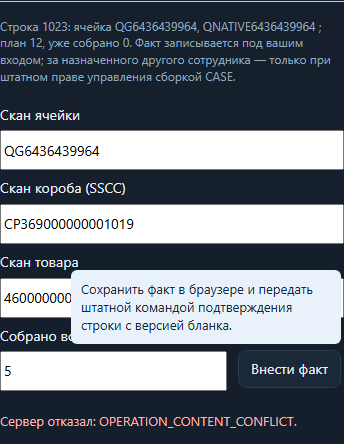
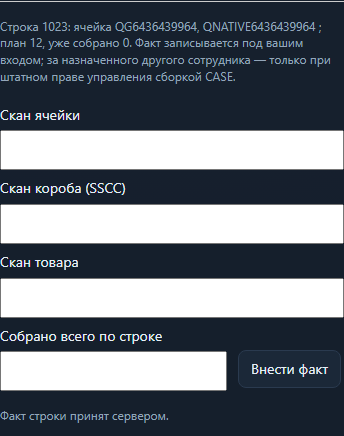
C-0156: paper fact journal guards (login scope before/after send, clear only on own confirmed refusal, readable refusals)

diff --git a/admin/wms_admin_frontend/src/features/platform/workspaces/paper/casePaper.ts b/admin/wms_admin_frontend/src/features/platform/workspaces/paper/casePaper.ts
@@ -45,7 +45,7 @@ export function parseCaseReference(text: string): { taskId: number; lineId: numb
 }
 
 export type CaseIntent = { task: number; line: number; path: string; wire: string; operation_id: string; scope: string; created_at: string };
-export type CaseSend = { kind: "ack" } | { kind: "refused"; code: string } | { kind: "unknown"; message: string };
+export type CaseSend = { kind: "ack" } | { kind: "refused"; code: string } | { kind: "unknown"; message: string } | { kind: "foreign"; message: string };
 export type UnitScan = { system_code: string; profile_code: string; code: string };
 export type CaseFact = { fact_qty: string; scan_cell: string; scan_container: string; scan_product: string; expected_case_signature: string; unit_scans?: UnitScan[] };
 /** Профили маркировки строки из существующего marking-policy; неизвестная форма — ошибка. */
@@ -93,18 +93,32 @@ function clearIfSame(intent: CaseIntent) {
   try { if (localStorage.getItem(key(intent.task, intent.line)) === JSON.stringify(intent)) localStorage.removeItem(key(intent.task, intent.line)); } catch { /* останется до повтора */ }
 }
 
-/** Отправить ровно сохранённые байты существующей командой подтверждения строки. */
+/** Запись этого входа и именно этот факт: scope, путь и байты совпадают с сохранённым. */
+const own = (intent: CaseIntent) => intent.scope === apiOperationScope() && readCasePending(intent.task, intent.line).intent !== null
+  && (() => { try { return localStorage.getItem(key(intent.task, intent.line)) === JSON.stringify(intent); } catch { return false; } })();
+const OTHER_LOGIN: CaseSend = { kind: "foreign", message: "Вход сменился: сохранённый факт прежнего входа не отправлен и не показан." };
+
+/** Отправить ровно сохранённые байты существующей командой подтверждения строки. Запись снимается только квитанцией своей операции или
+ *  подтверждённым отказом своей операции (409 с outcome_confirmed=true и тем же operation_id, не конфликт содержимого), либо 422 формы. */
 export async function sendCasePending(intent: CaseIntent): Promise<CaseSend> {
+  if (!own(intent)) return OTHER_LOGIN;  // старое намерение не уходит под другим входом
   try {
     const v = await apiFetch<{ operation_id?: string }>(intent.path, { method: "POST", body: intent.wire });
+    if (intent.scope !== apiOperationScope()) return OTHER_LOGIN;  // ответ пришёл после смены входа: запись остаётся, результат не показываем
     if (v?.operation_id !== intent.operation_id) return { kind: "unknown", message: "Ответ сервера не относится к этому факту. Факт сохранён; повторите его." };
     clearIfSame(intent);
     return { kind: "ack" };
   } catch (error) {
+    if (intent.scope !== apiOperationScope()) return OTHER_LOGIN;
     if (error instanceof ApiRequestError) {
-      const d = (typeof error.detail === "object" && error.detail ? error.detail : {}) as { code?: string; rule_reason?: string; outcome_confirmed?: boolean };
-      if (d.outcome_confirmed === true && error.status !== 503) { clearIfSame(intent); return { kind: "refused", code: d.rule_reason || d.code || `HTTP ${error.status}` }; }
-      if (error.status === 422) { clearIfSame(intent); return { kind: "refused", code: d.code ?? "CASE_COMMAND_INVALID" }; }
+      const d = (typeof error.detail === "object" && error.detail ? error.detail : {}) as { code?: string; rule_reason?: string; outcome_confirmed?: boolean; operation_id?: string; read_before_retry?: boolean };
+      const reason = d.rule_reason || d.code || `HTTP ${error.status}`;
+      if (error.status === 409 && d.outcome_confirmed === true && d.operation_id === intent.operation_id && !d.read_before_retry && !reason.includes("CONFLICT_CONTENT") && !reason.includes("CONTENT_CONFLICT")) {
+        clearIfSame(intent); return { kind: "refused", code: reason };
+      }
+      // 422: тело не прошло проверку формы до проведения (эффекта не было); это же тело никогда не пройдёт.
+      if (error.status === 422 && (d.code === "CASE_COMMAND_INVALID" || Array.isArray(error.detail))) { clearIfSame(intent); return { kind: "refused", code: d.code ?? "CASE_COMMAND_INVALID" }; }
+      if (reason.includes("CONTENT_CONFLICT")) return { kind: "unknown", message: "Номер этой операции уже использован с другими данными. Факт сохранён без изменений; сверьте строку в карточке CASE и обратитесь к руководителю." };
       return { kind: "unknown", message: error.status === 401 || error.status === 403 ? "Доступ закрыт или сессия завершена. Факт сохранён; войдите снова и повторите его."
         : `Исход не подтверждён (HTTP ${error.status}). Факт сохранён; повторите его тем же номером.` };
     }
@@ -119,5 +133,8 @@ export function refusal(code: string): string {
   if (code.includes("CASE_FACT_NOT_INCREASING") || code.includes("FACT_NOT_INCREASING")) return "Количество должно быть больше уже подтверждённого (вводится накопленное по строке).";
   if (code.includes("CASE_TASK_ACTOR_CONFLICT")) return "Задание назначено другому сотруднику; подтверждать за него может только сотрудник с правом управления сборкой CASE.";
   if (code.includes("CASE_TASK_LINE_STATE_CONFLICT")) return "Задание или строка не в работе: начните задание штатно или проверьте строку.";
-  return `Сервер отказал: ${code}.`;
+  if (code.includes("CASE_MARKED_UNIT_SCANS_REQUIRED")) return "Для маркированного товара нужны коды маркировки каждой собранной единицы.";
+  if (code.includes("CASE_SELECTED_UNIT_NOT_OWNED") || code.includes("CASE_SCANNED_UNIT_QUANTITY_CONFLICT")) return "Коды маркировки не совпали с единицами в ячейке или с количеством.";
+  if (code.includes("CASE_COMMAND_INVALID")) return "Данные факта не прошли проверку (например, повторный или неизвестный код). Исправьте и внесите заново.";
+  return "Сервер отказал в подтверждении строки.";
 }

diff --git a/admin/wms_admin_frontend/src/features/platform/workspaces/paper/CasePaperPanel.tsx b/admin/wms_admin_frontend/src/features/platform/workspaces/paper/CasePaperPanel.tsx
@@ -113,9 +113,10 @@ function CaseByReference() {
 
 /** Факт строки с бумаги: накопленное количество и обязательные сканы; уходит существующей командой с версией бланка. */
 function LineFact({ taskId, signature, line, status }: { taskId: number; signature: string; line: CaseLine; status: string }) {
-  const [pending, setPending] = useState(() => readCasePending(taskId, line.line_id));
+  // Журнал браузера — единственный источник: читается на каждом рендере (и при смене входа — уже по новому входу).
+  const [, bump] = useState(0), pending = readCasePending(taskId, line.line_id);
   const [form, setForm] = useState({ fact_qty: "", scan_cell: "", scan_container: "", scan_product: "" });
-  const [msg, setMsg] = useState<{ text: string; tone: "ok" | "err" }>({ text: "", tone: "ok" }), [busy, setBusy] = useState(false);
+  const [msg, setMsg] = useState<{ text: string; tone: "ok" | "err"; code?: string }>({ text: "", tone: "ok" }), [busy, setBusy] = useState(false);
   const marked = line.device_required === "MARKING_SCAN_REQUIRED";
   const [codes, setCodes] = useState<string[]>([]), [code, setCode] = useState("");
   const [profiles, setProfiles] = useState<{ list: { system_code: string; profile_code: string }[]; error: string } | null>(null), [profile, setProfile] = useState(0);
@@ -132,16 +133,16 @@ function LineFact({ taskId, signature, line, status }: { taskId: number; signatu
   const send = async (intent: CaseIntent) => {
     setBusy(true);
     const r = await sendCasePending(intent);
-    setPending(readCasePending(taskId, line.line_id));  // журнал браузера — источник: снят только подтверждённым исходом
+    bump(n => n + 1);
     setBusy(false);
-    setMsg(r.kind === "ack" ? { text: "Факт строки принят сервером.", tone: "ok" } : r.kind === "refused" ? { text: refusal(r.code), tone: "err" } : { text: r.message, tone: "err" });
+    setMsg(r.kind === "ack" ? { text: "Факт строки принят сервером.", tone: "ok" } : r.kind === "refused" ? { text: refusal(r.code), code: r.code, tone: "err" } : { text: r.message, tone: "err" });
   };
   const submit = () => {
     try {
       const p = profiles?.list[profile];
       if (marked && (!p || !codes.length)) throw new Error("Отсканируйте код маркировки каждой собранной единицы.");
       const intent = saveCasePending(taskId, line.line_id, { ...form, expected_case_signature: signature, unit_scans: marked && p ? codes.map(c => ({ ...p, code: c })) : undefined });
-      setPending({ intent, damaged: "" }); void send(intent);
+      bump(n => n + 1); void send(intent);
     }
     catch (e) { setMsg({ text: (e as Error).message, tone: "err" }); }
   };
@@ -163,9 +164,9 @@ function LineFact({ taskId, signature, line, status }: { taskId: number; signatu
       <p className="ops-note">Отсканировано кодов: {codes.length}{codes.length ? ` · последний …${codes[codes.length - 1].slice(-8)}` : ""}</p>
       {codes.length > 0 && !pending.intent && <HelpButton help={paperHelp.caseCodesClear} type="button" onClick={() => setCodes([])}>Очистить коды</HelpButton>}
     </> : field("scan_product", "Скан товара", paperHelp.caseProduct)}{field("fact_qty", line.scale_reading ? "Собрано всего по строке, кг (показание весов)" : "Собрано всего по строке", paperHelp.caseQty)}
-    {pending.intent ? <HelpButton help={paperHelp.caseRetry} type="button" disabled={busy} onClick={() => void send(pending.intent!)}>Повторить отправку</HelpButton>
-      : <HelpButton help={paperHelp.caseSend} type="submit" disabled={busy || Boolean(blocked) || Boolean(pending.damaged)}>Внести факт</HelpButton>}
+    {pending.intent ? <HelpButton key="retry" help={paperHelp.caseRetry} type="button" disabled={busy} onClick={() => void send(pending.intent!)}>Повторить отправку</HelpButton>
+      : <HelpButton key="send" help={paperHelp.caseSend} type="submit" disabled={busy || Boolean(blocked) || Boolean(pending.damaged)}>Внести факт</HelpButton>}
     {pending.intent && <p className="ops-note">Сохранённый факт {pending.intent.operation_id} ждёт подтверждения; повтор отправит те же данные.</p>}
-    {msg.text && <p role={msg.tone === "err" ? "alert" : "status"} className={msg.tone === "err" ? "ops-err" : "ops-note"}>{msg.text}</p>}
+    {msg.text && <p role={msg.tone === "err" ? "alert" : "status"} className={msg.tone === "err" ? "ops-err" : "ops-note"}>{msg.text}{msg.code && <><br /><small>код: {msg.code}</small></>}</p>}
   </form>;
 }
